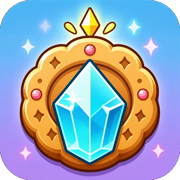
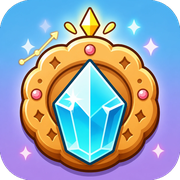
chore: 메인 아이콘 수정

diff --git a/components/header/index.tsx b/components/header/index.tsx
@@ -12,7 +12,7 @@ const Header = () => {
         >
           <span className="rounded-2xl border-2 border-amber-200 bg-amber-50/95 p-1 shadow-[0_4px_0_#d97706] transition-transform group-hover:-rotate-3 group-hover:scale-105">
             <Image
-              src="/branding/crystal-mark.webp"
+              src="/branding/crystal-mark-v2.webp"
               alt=""
               width={48}
               height={48}

diff --git a/components/domain-moved-notice.tsx b/components/domain-moved-notice.tsx
@@ -55,7 +55,7 @@ export default function DomainMovedNotice({
 
         <div className="mx-auto mb-6 mt-2 flex size-28 items-center justify-center rounded-[2rem] border-[3px] border-[#4f2d22] bg-[#def8fd] shadow-[0_6px_0_#3f9bb1]">
           <Image
-            src="/branding/crystal-mark.webp"
+            src="/branding/crystal-mark-v2.webp"
             alt=""
             width={96}
             height={96}
